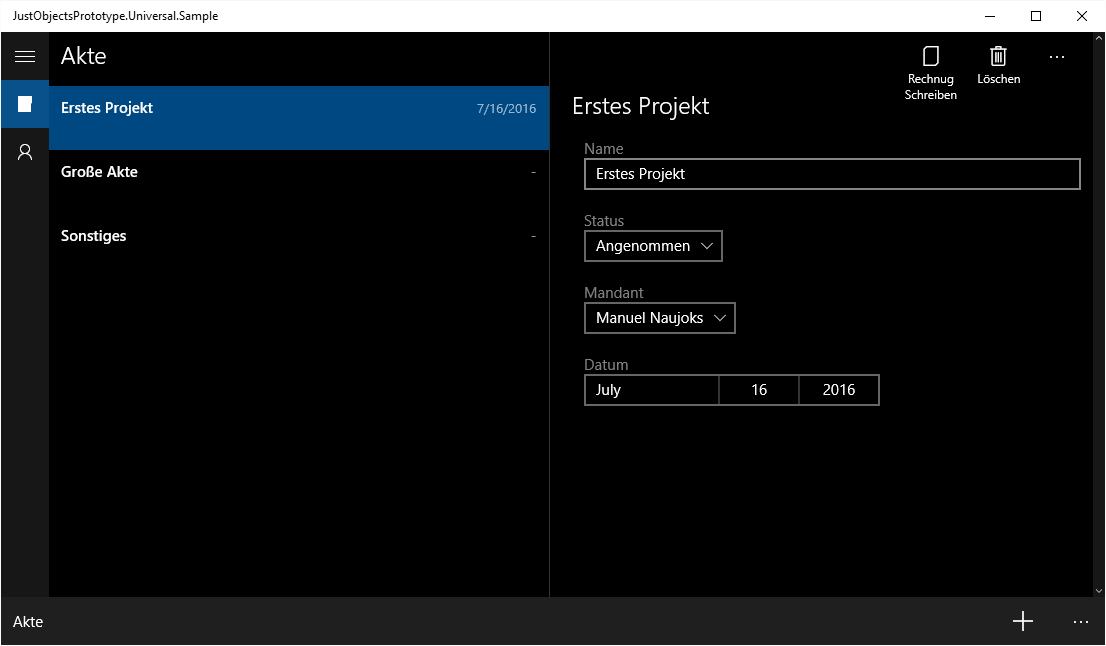
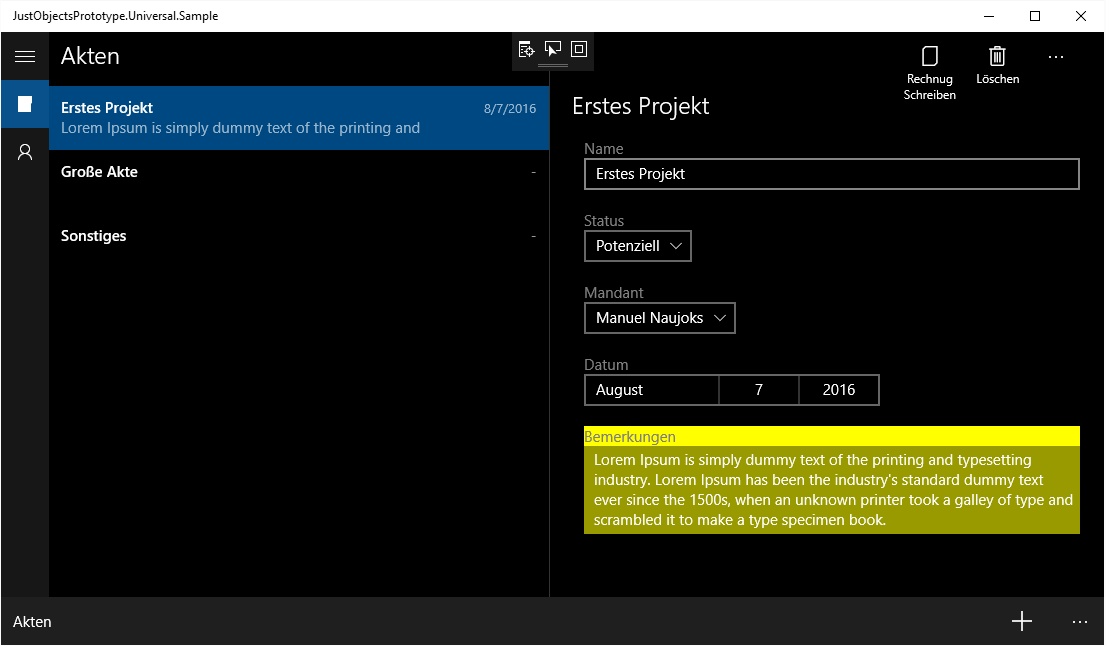
custom views (closes #6), simple editor with error message text

diff --git a/JustObjectsPrototype.Universal/JustObjectsPrototype.Universal/JOP/Editors/PropertiesViews.xaml b/JustObjectsPrototype.Universal/JustObjectsPrototype.Universal/JOP/Editors/PropertiesViews.xaml
@@ -2,7 +2,7 @@
                     xmlns:x="http://schemas.microsoft.com/winfx/2006/xaml"
 					xmlns:local="using:JustObjectsPrototype.Universal.JOP.Editors"
 					>
-	
+
 	<local:PropertyTemplateSelector x:Key="propertyTemplateSelector"
 									BooleanPropertyTemplate="{StaticResource booleanPropertyTemplate}"
 									DateTimePropertyTemplate="{StaticResource dateTimePropertyTemplate}"
@@ -38,7 +38,11 @@
 				<RowDefinition/>
 				<RowDefinition/>
 			</Grid.RowDefinitions>
-			<TextBlock Grid.Row="0" Text="{Binding Label}" Foreground="Gray"/>
+			<StackPanel Grid.Row="0" Orientation="Horizontal">
+				<TextBlock Text="{Binding Label}" Foreground="Gray"/>
+				<TextBlock Width="5"/>
+				<TextBlock Text="{Binding Error}" Foreground="Red"/>
+			</StackPanel>
 			<TextBox Grid.Row="1" Text="{Binding Value,Mode=TwoWay}" IsEnabled="{Binding CanWrite}" AcceptsReturn="True"/>
 		</Grid>
 	</DataTemplate>
@@ -93,8 +97,8 @@
 				</ListBox.ItemTemplate>
 			</ListBox>
 		</Grid>
-    </DataTemplate>
-    <DataTemplate x:Key="referenceTypePropertyTemplate">
+	</DataTemplate>
+	<DataTemplate x:Key="referenceTypePropertyTemplate">
 		<Grid Margin="10,10,0,10">
 			<Grid.RowDefinitions>
 				<RowDefinition/>

diff --git a/JustObjectsPrototype.Universal/JustObjectsPrototype.Universal.Sample/App.xaml b/JustObjectsPrototype.Universal/JustObjectsPrototype.Universal.Sample/App.xaml
@@ -5,4 +5,17 @@
     xmlns:local="using:JustObjectsPrototype.Universal.Sample"
     RequestedTheme="Dark">
 
+	<Application.Resources>
+		<DataTemplate x:Key="YellowBackgroundTextInput">
+			<Grid Margin="10,10,0,10" Background="Yellow">
+				<Grid.RowDefinitions>
+					<RowDefinition/>
+					<RowDefinition/>
+				</Grid.RowDefinitions>
+				<TextBlock Text="{Binding Label}" Foreground="Gray"/>
+				<TextBox Grid.Row="1" Text="{Binding Value,Mode=TwoWay}" IsEnabled="{Binding CanWrite}" AcceptsReturn="True" TextWrapping="Wrap" BorderThickness="0"/>
+			</Grid>
+		</DataTemplate>
+	</Application.Resources>	
+	
 </Application>

diff --git a/JustObjectsPrototype.Universal/JustObjectsPrototype.Universal/JOP/Editors/PropertiesViewModels.cs b/JustObjectsPrototype.Universal/JustObjectsPrototype.Universal/JOP/Editors/PropertiesViewModels.cs
@@ -12,7 +12,9 @@ namespace JustObjectsPrototype.Universal.JOP.Editors
 		{
 			var propertiesViewModels =
 				from valueStore in valueStores
-				select valueStore.CanRead && valueStore.ValueType == typeof(DateTime) ? (IPropertyViewModel)new DateTimePropertyViewModel { ValueStore = valueStore }
+				select valueStore.CanRead && valueStore.CustomView != null ? (IPropertyViewModel)new CustomViewViewModel { ValueStore = valueStore }
+
+					 : valueStore.CanRead && valueStore.ValueType == typeof(DateTime) ? (IPropertyViewModel)new DateTimePropertyViewModel { ValueStore = valueStore }
 
 					 : valueStore.CanRead && valueStore.ValueType == typeof(bool) ? (IPropertyViewModel)new BooleanPropertyViewModel { ValueStore = valueStore }
 
@@ -31,8 +33,7 @@ namespace JustObjectsPrototype.Universal.JOP.Editors
 							&& valueStore.ValueType.GetTypeInfo().IsGenericType
 							&& (valueStore.ValueType.GetGenericTypeDefinition() == typeof(IEnumerable<>)
 								||
-								valueStore.ValueType.GetGenericTypeDefinition().GetInterfaces().Contains(typeof(IEnumerable))) ?
-																														(IPropertyViewModel)new SimpleTypeListPropertyViewModel { ValueStore = valueStore }
+								valueStore.ValueType.GetGenericTypeDefinition().GetInterfaces().Contains(typeof(IEnumerable))) ? (IPropertyViewModel)new SimpleTypeListPropertyViewModel { ValueStore = valueStore }
 
 					 : valueStore.CanRead && objects.Types.Contains(valueStore.ValueType) ? (IPropertyViewModel)new ReferenceTypePropertyViewModel { ValueStore = valueStore, Objects = objects.OfType(valueStore.ValueType).Select(o => o.ProxiedObject) }
 

diff --git a/JustObjectsPrototype.Universal/JustObjectsPrototype.Universal/JOP/Editors/CustomViewViewModel.cs b/JustObjectsPrototype.Universal/JustObjectsPrototype.Universal/JOP/Editors/CustomViewViewModel.cs
@@ -1,13 +1,10 @@
 using JustObjectsPrototype.Universal.Shell;
 using System;
+using Windows.UI.Xaml;
 
 namespace JustObjectsPrototype.Universal.JOP.Editors
 {
-	public class DateTimePropertyViewModel : SimpleTypePropertyViewModel { }
-
-	public class BooleanPropertyViewModel : SimpleTypePropertyViewModel { }
-
-	public class SimpleTypePropertyViewModel : ViewModel, IPropertyViewModel
+	public class CustomViewViewModel : ViewModel, IPropertyViewModel
 	{
 		IValueStore _ValueStore;
 		public IValueStore ValueStore
@@ -20,11 +17,9 @@ namespace JustObjectsPrototype.Universal.JOP.Editors
 			}
 		}
 
-		public bool CanWrite { get { return ValueStore.CanWrite; } }
+		public DataTemplate CustomView { get { return (DataTemplate)Application.Current.Resources[ValueStore.CustomView]; } }
 
 		public string Label { get { return ValueStore.Identifier; } }
-
-		public string Error { get; set; }
 
 		public Type ValueType { get { return ValueStore.ValueType; } }
 
@@ -36,7 +31,6 @@ namespace JustObjectsPrototype.Universal.JOP.Editors
 			}
 			set
 			{
-				Error = string.Empty;
 				try
 				{
 					var convertedValue = Convert.ChangeType(value, ValueType);
@@ -44,9 +38,9 @@ namespace JustObjectsPrototype.Universal.JOP.Editors
 				}
 				catch (Exception ex)
 				{
-					Error = ex.Message;
+					System.Diagnostics.Debug.WriteLine("Assignment error: " + ex.Message);
+					//System.Windows.MessageBox.Show("Assignment error: " + ex.Message);
 				}
-				Changed(() => Error);
 			}
 		}
 

diff --git a/JustObjectsPrototype.Universal/JustObjectsPrototype.Universal/JOP/Editors/PropertyTemplateSelector.cs b/JustObjectsPrototype.Universal/JustObjectsPrototype.Universal/JOP/Editors/PropertyTemplateSelector.cs
@@ -15,7 +15,8 @@ namespace JustObjectsPrototype.Universal.JOP.Editors
 
 		protected override DataTemplate SelectTemplateCore(object item, DependencyObject container)
 		{
-			if (item is DateTimePropertyViewModel) { return DateTimePropertyTemplate; }
+			if (item is CustomViewViewModel) { return ((CustomViewViewModel)item).CustomView; }
+			else if (item is DateTimePropertyViewModel) { return DateTimePropertyTemplate; }
 			else if (item is BooleanPropertyViewModel) { return BooleanPropertyTemplate; }
 			else if (item is SimpleTypePropertyViewModel) { return SimpleTypePropertyTemplate; }
 			else if (item is EnumTypePropertyViewModel) { return EnumTypePropertyTemplate; }

diff --git a/JustObjectsPrototype.Universal/JustObjectsPrototype.Universal/JOP/Attributes.cs b/JustObjectsPrototype.Universal/JustObjectsPrototype.Universal/JOP/Attributes.cs
@@ -34,4 +34,14 @@ namespace JustObjectsPrototype.Universal.JOP
 		public bool Hide { get; private set; }
 		public bool Readonly { get; private set; }
 	}
+
+	public class CustomViewAttribute : Attribute
+	{
+		public CustomViewAttribute(string dateTemplateResourceKey)
+		{
+			ResourceKey = dateTemplateResourceKey;
+		}
+
+		public string ResourceKey { get; private set; }
+	}
 }

diff --git a/JustObjectsPrototype.Universal/JustObjectsPrototype.Universal.Sample/App.xaml.cs b/JustObjectsPrototype.Universal/JustObjectsPrototype.Universal.Sample/App.xaml.cs
@@ -66,6 +66,9 @@ namespace JustObjectsPrototype.Universal.Sample
 		public Kunde Mandant { get; set; }
 		public DateTime Datum { get; set; }
 
+		[JOP.CustomView("YellowBackgroundTextInput")]
+		public string Bemerkungen { get; set; }
+
 		[JOP.Icon(Symbol.Document)]
 		public Dokument Rechnug_Schreiben(string inhalt)
 		{

diff --git a/JustObjectsPrototype.Universal/JustObjectsPrototype.Universal/JOP/Editors/PropertyValueStore.cs b/JustObjectsPrototype.Universal/JustObjectsPrototype.Universal/JOP/Editors/PropertyValueStore.cs
@@ -78,6 +78,14 @@ namespace JustObjectsPrototype.Universal.JOP.Editors
 			}
 		}
 
+		public object CustomView
+		{
+			get
+			{
+				return Property.GetCustomAttribute<CustomViewAttribute>()?.ResourceKey;
+			}
+		}
+
 		public void SetValue(object value)
 		{
 			Property.SetValue(Instance.ProxiedObject, value);

diff --git a/JustObjectsPrototype.Universal/JustObjectsPrototype.Universal/JOP/Editors/IValueStore.cs b/JustObjectsPrototype.Universal/JustObjectsPrototype.Universal/JOP/Editors/IValueStore.cs
@@ -10,6 +10,7 @@ namespace JustObjectsPrototype.Universal.JOP.Editors
 		bool CanRead { get; }
 		bool CanWrite { get; }
 		object Value { get; }
+		object CustomView { get; }
 
 		void SetValue(object value);
 	}

diff --git a/JustObjectsPrototype.Universal/JustObjectsPrototype.Universal/JOP/Editors/SelfcontainedValueStore.cs b/JustObjectsPrototype.Universal/JustObjectsPrototype.Universal/JOP/Editors/SelfcontainedValueStore.cs
@@ -29,6 +29,11 @@ namespace JustObjectsPrototype.Universal.JOP.Editors
 			get; set;
 		}
 
+		public object CustomView
+		{
+			get; set;
+		}
+
 		public void SetValue(object value)
 		{
 			Value = value;

diff --git a/README.md b/README.md
@@ -11,13 +11,16 @@ Just create a new Blank App (Universal Windows) and add POCO classes that implem
 ```csharp
 public enum Aktenstatus { Potenziell, Angenommen, Abgelehnt }
 
-[JOP.Icon(Symbol.Folder)]
+[JOP.Icon(Symbol.Folder), JOP.Title("Akten")]
 public class Akte
 {
 	public string Name { get; set; }
 	public Aktenstatus Status { get; set; }
 	public Kunde Mandant { get; set; }
 	public DateTime Datum { get; set; }
+
+	[JOP.CustomView("YellowBackgroundTextInput")]
+	public string Bemerkungen { get; set; }
 
 	[JOP.Icon(Symbol.Document)]
 	public Dokument Rechnug_Schreiben(string inhalt)
@@ -38,7 +41,7 @@ public class Akte
 	}
 }
 
-[JOP.Icon(Symbol.Contact)]
+[JOP.Icon(Symbol.Contact), JOP.Title("Kunden")]
 public class Kunde
 {
 	public string Vorname { get; set; }
@@ -79,7 +82,7 @@ protected override void OnLaunched(LaunchActivatedEventArgs e)
 	Show.Prototype(With.These(objects));
 }
 ```
-This gets you an UI like in the screenshot below, where you can 'play' with your object model by creating and deleting instances and invoke methods of your types.
+This gets you an UI like in the screenshot below, where you can 'play' with your object model by creating and deleting instances and invoke methods of your types. Icons, titles and custom view elements can be added by attributing your classes.
 ![Screenshot](https://raw.githubusercontent.com/halllo/JOP.universal/master/screenshot.png)
 
 Happy prototyping!
